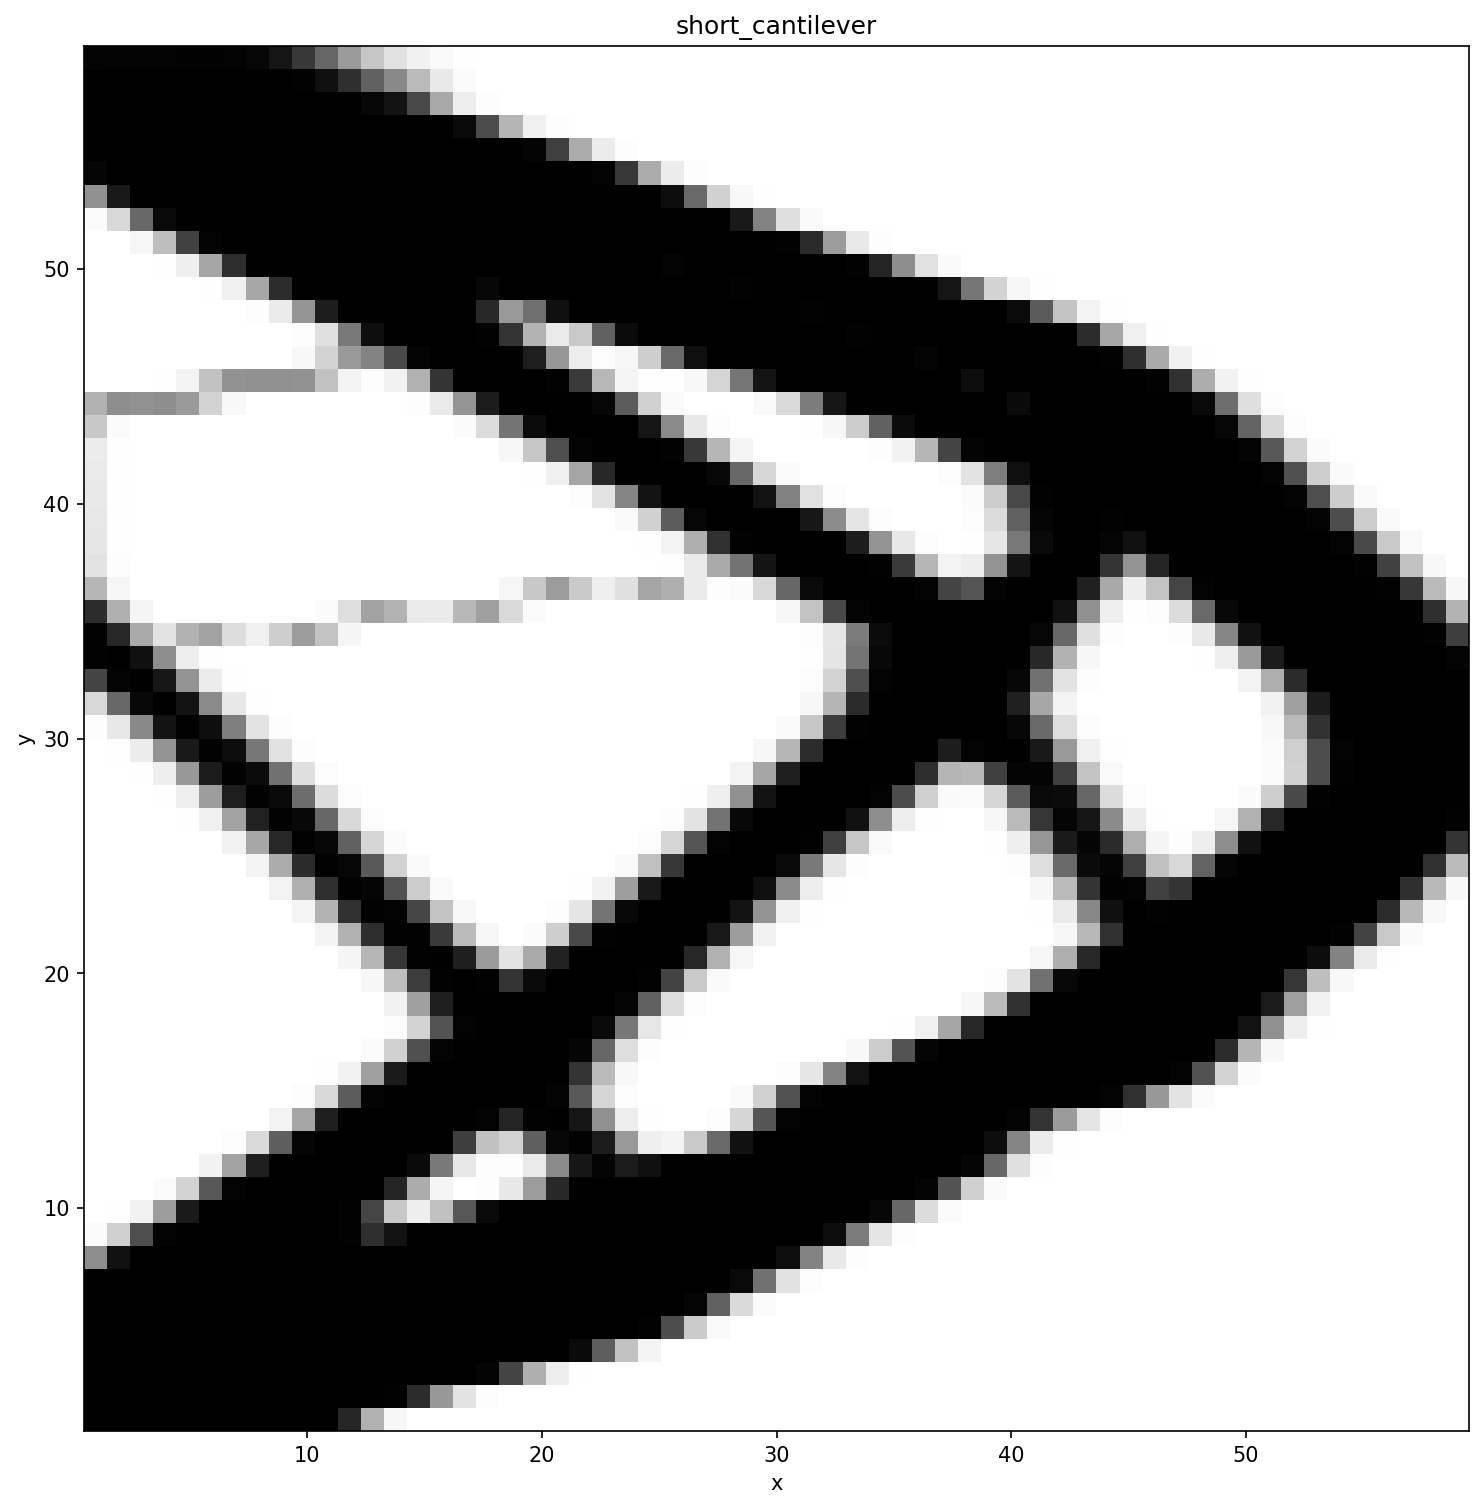
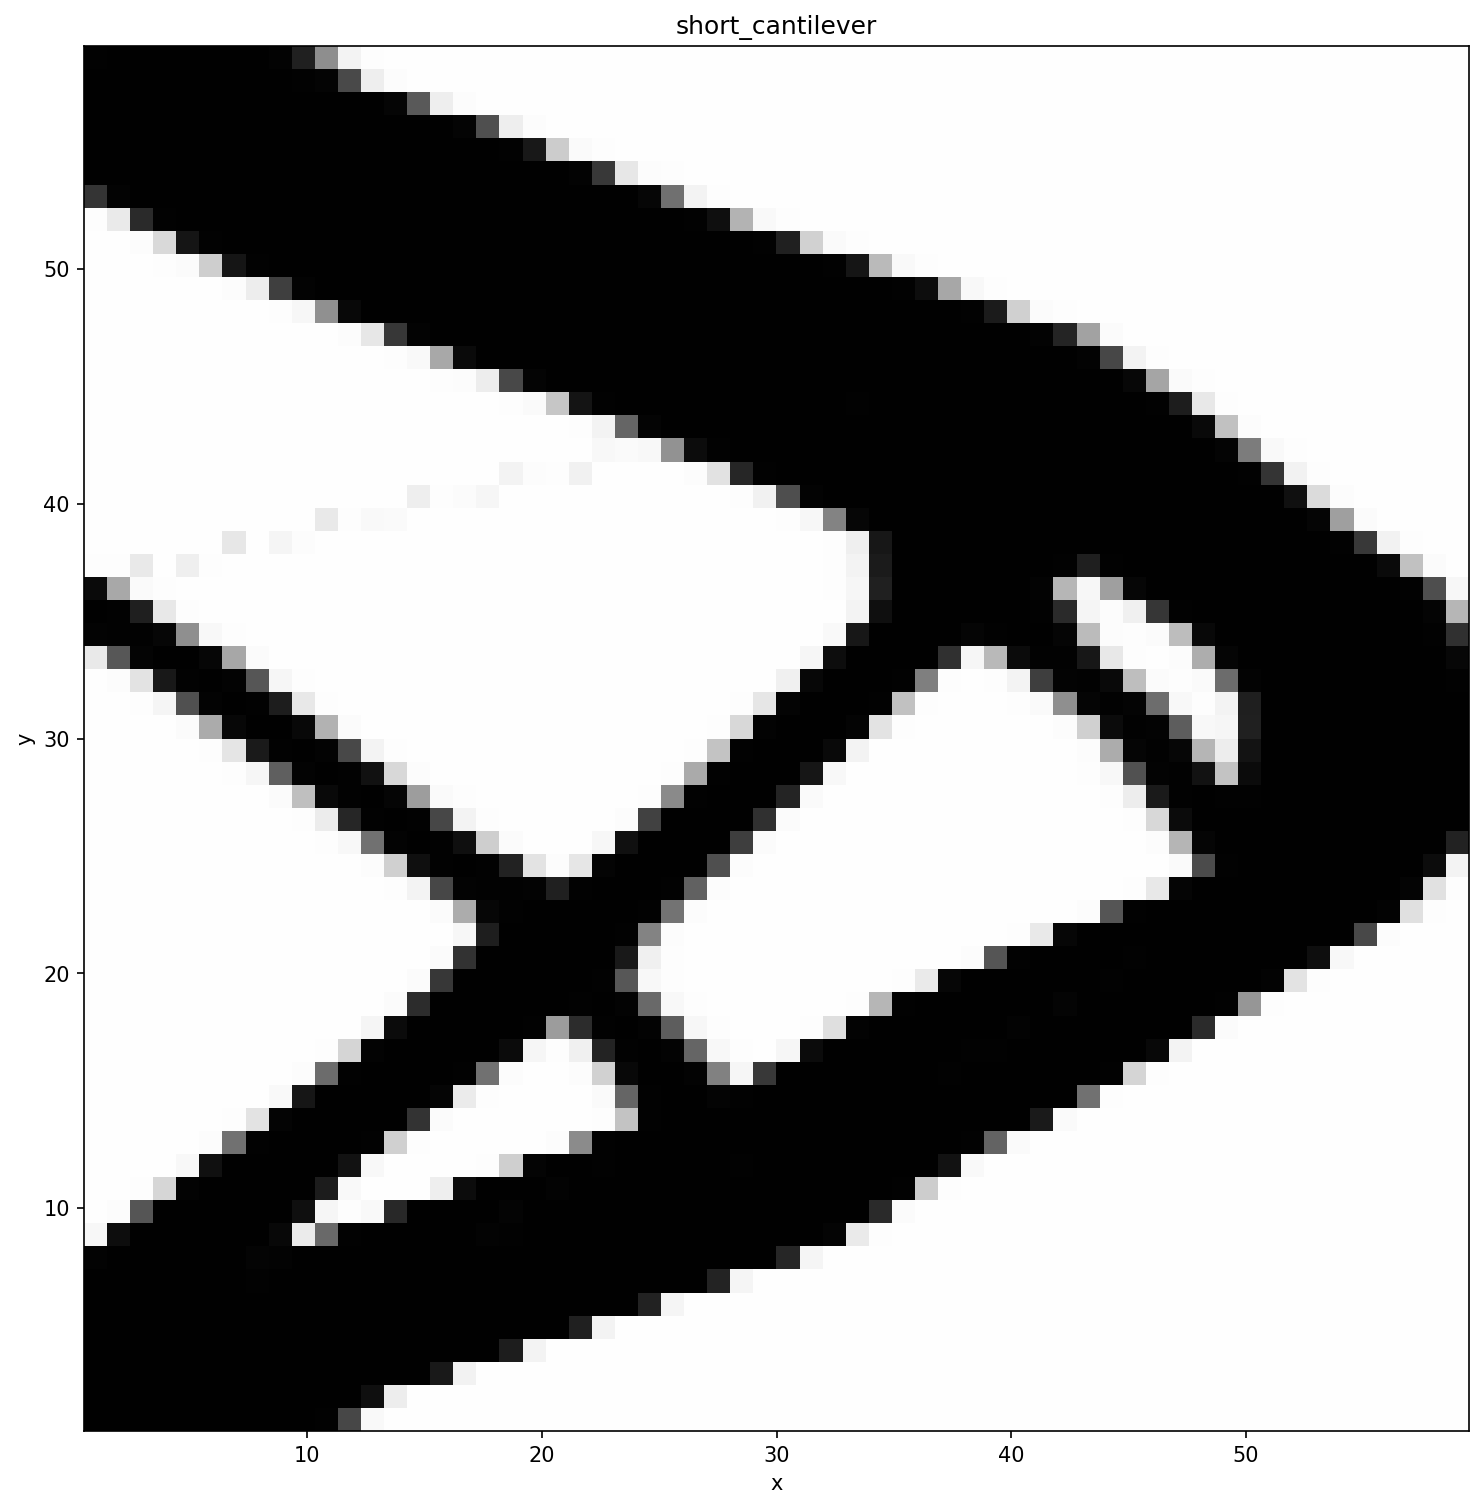
fix: restore Free AMNA mode for 2D benchmarks, correct MMA settings, sharpen visualization
Switch short_cantilever/mbb/l_shape presets back to mode: Free (AMNA method)
with 60×30 domain for cantilever and MBB, matching the paper's 2D Free
formulation. Previous ALM switch was incorrect for these standard benchmarks.

MMA settings now match Matlab reference: initial_asymptotes_distance=0.01
with adaptive growth (max=0.5, reduction_coeff=0.4) instead of the fixed
0.05 cap that blocked convergence. Iterations raised from 150 to 400.

Add sigmoid sharpening (beta=10) to density plot visualization so bar
boundaries appear crisp rather than blurred by the smooth MNA window.

Regenerated all three benchmark images show correct topologies:
short cantilever (two-strut diamond), MBB (diagonal arch + bottom chord),
L-shape (diagonal strut + horizontal connection at load height).

Claude-Session: https://claude.ai/code/session_01Queb8V5EuSbTaDyBGyr8wK

diff --git a/ggp/visualization/plot.py b/ggp/visualization/plot.py
@@ -34,8 +34,14 @@ def save_density_plot_2d(
     aspect = (Y.max() - Y.min()) / max(X.max() - X.min(), 1e-9)
     fig_w = 10
     fig, ax = plt.subplots(figsize=(fig_w, fig_w * aspect + 0.6))
+    # Sharpen the density field: sigmoid with beta=10 centred at 0.5
+    # This maps the smooth MNA transition band to a near-binary 0/1 image
+    # while preserving the correct material distribution topology.
+    beta = 10.0
+    Z_sharp = 1.0 / (1.0 + np.exp(-beta * (Z - 0.5)))
+
     ax.imshow(
-        1.0 - Z,
+        1.0 - Z_sharp,
         cmap="gray",
         origin="lower",
         aspect="equal",

diff --git a/docs/ex01_short_cantilever.rst b/docs/ex01_short_cantilever.rst
@@ -1,10 +1,10 @@
 Short Cantilever
 ================
 
-A GGP benchmark: a 60 × 60 beam clamped on the left face with a downward
-point load at the mid-right edge.  Five vertical bar columns (18 layers each)
-optimise their x-position and width per layer using the MNA characteristic
-function — the same variable structure as the Matlab reference code.
+A GGP benchmark: a 60 × 30 beam clamped on the left face with a downward
+point load at the mid-right edge.  Eighteen free bars optimise their
+position, orientation, length, thickness, and membership density using the
+AMNA (MNA) characteristic function.
 
 Running
 -------
@@ -27,7 +27,7 @@ Result
    :width: 80%
    :align: center
 
-   Optimized density field after 150 MMA iterations (40 % volume fraction).
+   Optimized density field after 400 MMA iterations (40 % volume fraction).
 
 Problem details
 ---------------
@@ -35,25 +35,23 @@ Problem details
 +---------------------+------------------+
 | Parameter           | Value            |
 +=====================+==================+
-| Domain              | 60 × 60          |
+| Domain              | 60 × 30          |
 +---------------------+------------------+
-| Mesh                | 60 × 60 quads    |
+| Mesh                | 60 × 30 quads    |
 +---------------------+------------------+
-| Formulation         | ALM (MNA method) |
+| Formulation         | Free 2D          |
 +---------------------+------------------+
-| Layers (nY)         | 18               |
+| Method              | AMNA (MNA)       |
 +---------------------+------------------+
-| Columns (np)        | 5                |
+| Components          | 18               |
 +---------------------+------------------+
-| Layer height        | 3.33             |
+| ``r_gp`` (σ)        | 1.0              |
 +---------------------+------------------+
-| ``r_gp`` (R)        | 0.5              |
-+---------------------+------------------+
-| Ngp                 | 1                |
+| Min thickness       | 3 elements       |
 +---------------------+------------------+
 | Volume fraction     | 0.40             |
 +---------------------+------------------+
 | Algorithm           | MMA              |
 +---------------------+------------------+
-| Max iterations      | 150              |
+| Max iterations      | 400              |
 +---------------------+------------------+

diff --git a/docs/ex02_mbb_beam.rst b/docs/ex02_mbb_beam.rst
@@ -27,7 +27,7 @@ Result
    :width: 90%
    :align: center
 
-   Optimized density field after 150 MMA iterations (40 % volume fraction).
+   Optimized density field after 400 MMA iterations (40 % volume fraction).
 
 Problem details
 ---------------
@@ -35,25 +35,23 @@ Problem details
 +---------------------+------------------+
 | Parameter           | Value            |
 +=====================+==================+
-| Domain              | 60 × 60          |
+| Domain              | 60 × 30          |
 +---------------------+------------------+
-| Mesh                | 60 × 60 quads    |
+| Mesh                | 60 × 30 quads    |
 +---------------------+------------------+
-| Formulation         | ALM (MNA method) |
+| Formulation         | Free 2D          |
 +---------------------+------------------+
-| Layers (nY)         | 18               |
+| Method              | AMNA (MNA)       |
 +---------------------+------------------+
-| Columns (np)        | 5                |
+| Components          | 18               |
 +---------------------+------------------+
-| Layer height        | 3.33             |
+| ``r_gp`` (σ)        | 1.0              |
 +---------------------+------------------+
-| ``r_gp`` (R)        | 0.5              |
-+---------------------+------------------+
-| Ngp                 | 1                |
+| Min thickness       | 3 elements       |
 +---------------------+------------------+
 | Volume fraction     | 0.40             |
 +---------------------+------------------+
 | Algorithm           | MMA              |
 +---------------------+------------------+
-| Max iterations      | 150              |
+| Max iterations      | 400              |
 +---------------------+------------------+

diff --git a/docs/ex03_l_shape_bracket.rst b/docs/ex03_l_shape_bracket.rst
@@ -26,7 +26,7 @@ Result
    :width: 60%
    :align: center
 
-   Optimized density field after 150 MMA iterations (40 % volume fraction).
+   Optimized density field after 400 MMA iterations (40 % volume fraction).
 
 Problem details
 ---------------
@@ -38,21 +38,19 @@ Problem details
 +---------------------+------------------+
 | Mesh                | 60 × 60 quads    |
 +---------------------+------------------+
-| Formulation         | ALM (MNA method) |
+| Formulation         | Free 2D          |
 +---------------------+------------------+
-| Layers (nY)         | 18               |
+| Method              | AMNA (MNA)       |
 +---------------------+------------------+
-| Columns (np)        | 5                |
+| Components          | 18               |
 +---------------------+------------------+
-| Layer height        | 3.33             |
+| ``r_gp`` (σ)        | 1.0              |
 +---------------------+------------------+
-| ``r_gp`` (R)        | 0.5              |
-+---------------------+------------------+
-| Ngp                 | 1                |
+| Min thickness       | 3 elements       |
 +---------------------+------------------+
 | Volume fraction     | 0.40             |
 +---------------------+------------------+
 | Algorithm           | MMA              |
 +---------------------+------------------+
-| Max iterations      | 150              |
+| Max iterations      | 400              |
 +---------------------+------------------+
